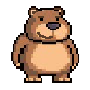
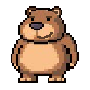
s

diff --git a/Agrinho-Gamesxx/game.js b/Agrinho-Gamesxx/game.js
@@ -244,8 +244,8 @@ function create() {
     lagarta.setVisible(false);
 
     // 🐻 URSO NPC
-   urso = this.physics.add.sprite(600, 520, 'urso1');
-   urso.setScale(1);
+   urso = this.physics.add.sprite(600, 550, 'urso1');
+   urso.setScale(1,5);
    urso.body.allowGravity = false;
 
 urso.disableBody(true, true);
@@ -330,7 +330,7 @@ function atacarLagarta() {
         lagarta.y
     );
 
-    if (distancia < 210) {
+    if (distancia < 215) {
 
         lagarta.disableBody(true, true);
 